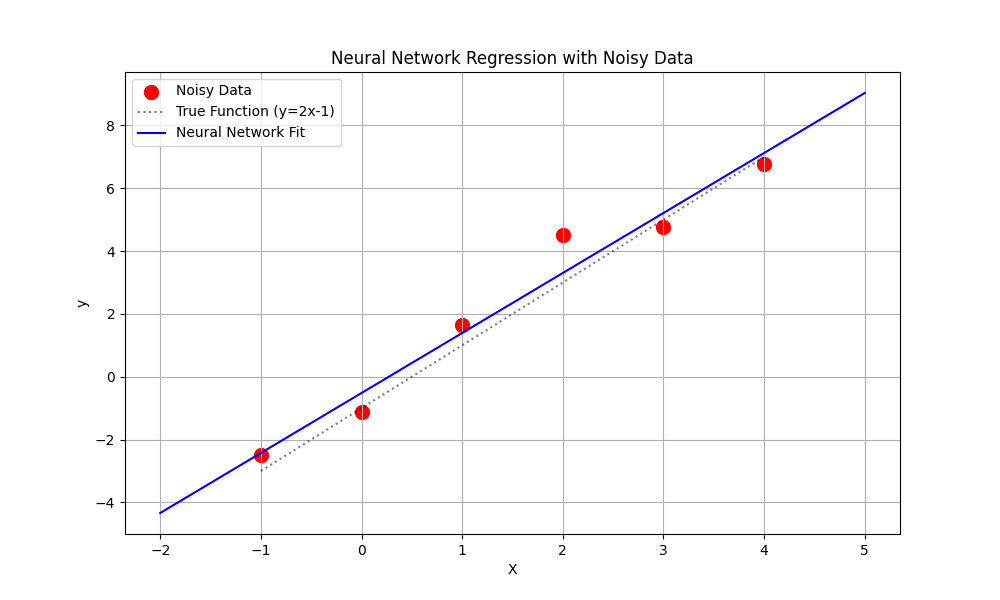
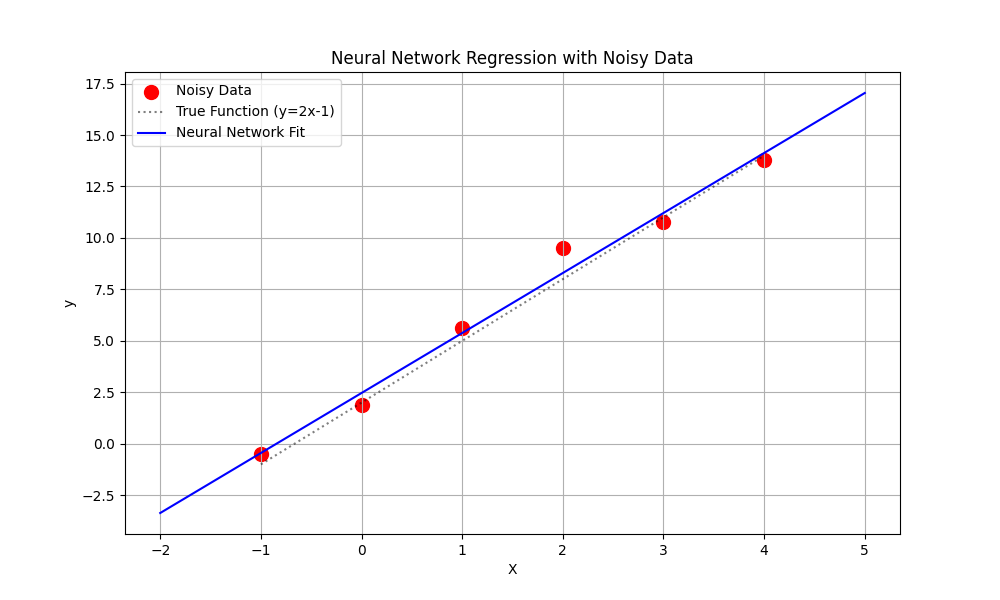
week1 과제 완료

diff --git a/week1/01_hello_nn_3x2.py b/week1/01_hello_nn_3x2.py
@@ -1,0 +1,89 @@
+import tensorflow as tf
+import numpy as np
+import matplotlib.pyplot as plt
+import os
+
+# Ensure outputs directory exists
+output_dir = 'outputs'
+if not os.path.exists(output_dir):
+    os.makedirs(output_dir)
+
+print("TensorFlow Version:", tf.__version__)
+
+# 1. 데이터 준비 (Data Preparation)
+# 학습할 관계: y = 2x - 1
+# 입력(x)와 정답(y) 데이터 생성
+X = np.array([-1.0, 0.0, 1.0, 2.0, 3.0, 4.0], dtype=float)
+y_clean = np.array([-1.0, 2.0, 5.0, 8.0, 11.0, 14.0], dtype=float)
+
+# Add random noise
+np.random.seed(42)
+noise = np.random.normal(loc=0.0, scale=1.0, size=len(X))
+y = y_clean + noise
+
+print("\nTraining Data:")
+print("X:", X)
+print("y (clean):", y_clean)
+print("y (noisy):", y)
+
+# 2. 모델 구성 (Model Architecture)
+# 가장 간단한 신경망: 1개의 뉴런, 1개의 입력
+model = tf.keras.Sequential([
+    tf.keras.layers.Dense(units=1, input_shape=[1])
+])
+
+# 3. 모델 컴파일 (Compilation)
+# Optimizer: SGD (Stochastic Gradient Descent, 확률적 경사 하강법)
+# Loss function: MSE (Mean Squared Error, 평균 제곱 오차)
+model.compile(optimizer='sgd', loss='mean_squared_error')
+
+# 4. 모델 학습 (Training)
+print("\nStarting training...")
+history = model.fit(X, y, epochs=500, verbose=0)
+print("Training finished!")
+
+# 5. 예측 (Prediction)
+# 학습된 모델로 새로운 데이터(x=10.0)에 대한 예측 수행
+# 정답은 2*10 - 1 = 19.0 이어야 함
+new_x = 10.0
+prediction = model.predict(np.array([[new_x]]))
+print(f"\nPrediction for x={new_x}: {prediction[0][0]:.4f}")
+print(f"Expected value: {2 * new_x - 1}")
+
+# 6. 학습 과정 시각화 (Visualization)
+# 6-1. Loss Graph
+plt.figure(figsize=(8, 5))
+plt.plot(history.history['loss'])
+plt.title('Model Training Loss')
+plt.ylabel('Loss (MSE)')
+plt.xlabel('Epoch')
+plt.grid(True)
+plt.savefig(os.path.join(output_dir, 'training_loss.png'))
+print(f"\nLoss plot saved to {os.path.join(output_dir, 'training_loss.png')}")
+
+# 6-2. Model Fit Graph
+plt.figure(figsize=(10, 6))
+plt.scatter(X, y, color='red', label='Noisy Data', s=100)
+plt.plot(X, y_clean, 'k:', label='True Function (y=2x-1)', alpha=0.5)
+
+# Predict for plotting line
+x_range = np.linspace(-2, 5, 100)
+y_pred = model.predict(x_range.reshape(-1, 1), verbose=0)
+plt.plot(x_range, y_pred, label='Neural Network Fit', color='blue')
+
+plt.title('Neural Network Regression with Noisy Data')
+plt.xlabel('X')
+plt.ylabel('y')
+plt.legend()
+plt.grid(True)
+plt.savefig(os.path.join(output_dir, 'model_fit.png'))
+print(f"Model fit plot saved to {os.path.join(output_dir, 'model_fit.png')}")
+
+# 7. 모델 가중치 확인
+weights = model.get_weights()
+w = weights[0][0][0]
+b = weights[1][0]
+print(f"\nLearned Parameters:")
+print(f"Weight (w): {w:.4f} (Expected: 2.0)")
+print(f"Bias (b): {b:.4f} (Expected: -1.0)")
+print(f"Formula: y = {w:.4f}x + {b:.4f}")

diff --git a/week1/02_polynomial_fitting_3x2.py b/week1/02_polynomial_fitting_3x2.py
@@ -15,11 +15,11 @@ print("="*50)
 # 1. 데이터 준비 (Data Preparation)
 # 01_hello_nn.py와 동일한 데이터
 X = np.array([-1.0, 0.0, 1.0, 2.0, 3.0, 4.0], dtype=float)
-y_clean = np.array([-3.0, -1.0, 1.0, 3.0, 5.0, 7.0], dtype=float)
+y_clean = np.array([-1.0, 2.0, 5.0, 8.0, 11.0, 14.0], dtype=float)
 
 # Add random noise (scale=1.0)
 np.random.seed(42) # For reproducibility
-noise = np.random.normal(loc=0.0, scale=3.0, size=len(X))
+noise = np.random.normal(loc=0.0, scale=0.1, size=len(X))
 y = y_clean + noise
 
 print("Data:")

diff --git a/week1/02_fitting_noise01.py b/week1/02_fitting_noise01.py
@@ -19,7 +19,7 @@ y_clean = np.array([-3.0, -1.0, 1.0, 3.0, 5.0, 7.0], dtype=float)
 
 # Add random noise (scale=1.0)
 np.random.seed(42) # For reproducibility
-noise = np.random.normal(loc=0.0, scale=3.0, size=len(X))
+noise = np.random.normal(loc=0.0, scale=0.1, size=len(X))
 y = y_clean + noise
 
 print("Data:")
